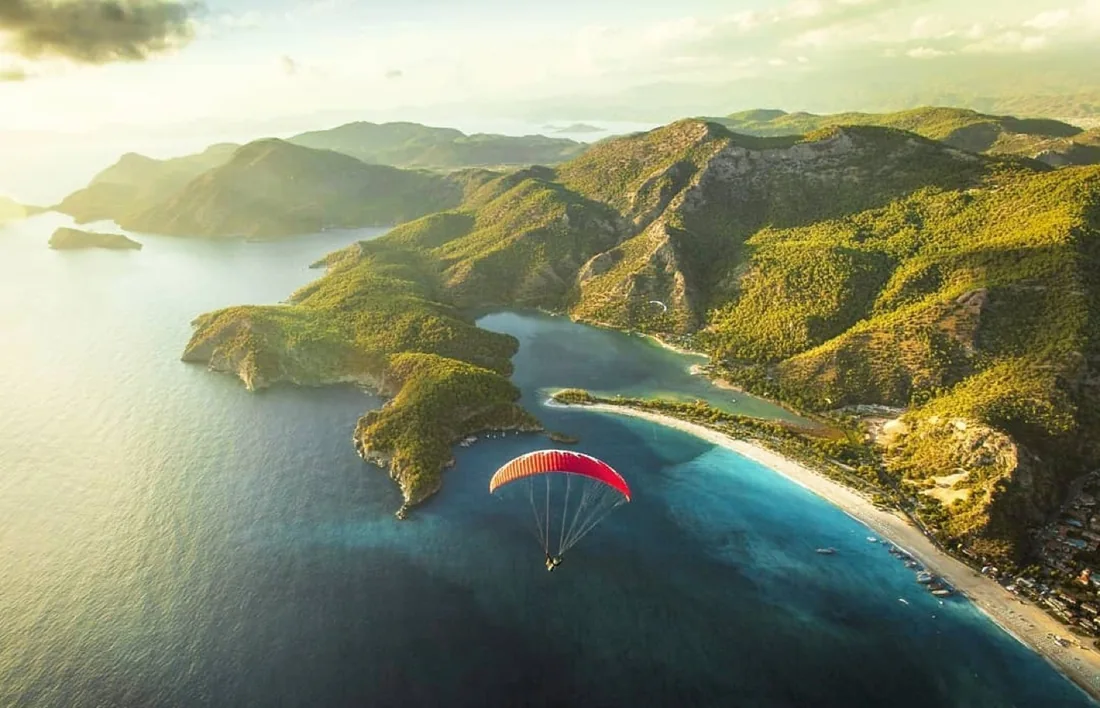
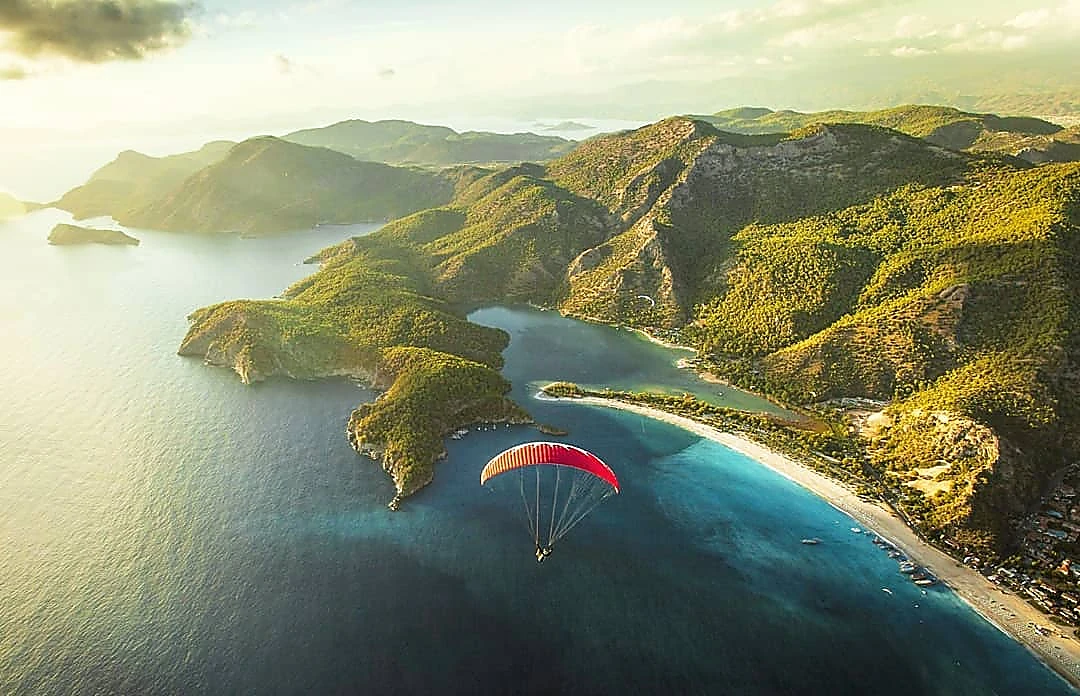
Fix cover photo blur + Telegram browser hint
Made-with: Cursor

diff --git a/index.html b/index.html
@@ -478,5 +478,27 @@ setTimeout(()=>{tip.remove();},4200);
   });
 })();
 </script>
+
+<div id="tg-banner" style="display:none;position:fixed;bottom:0;left:0;right:0;z-index:9999;background:#111;border-top:1px solid rgba(127,236,224,0.4);padding:10px 16px;font-family:Inter,sans-serif;font-size:13px;color:#fff;text-align:center;line-height:1.5;">
+  Для зума пальцами — открой в браузере<br>
+  <span style="color:#7FECE0;font-size:12px;">Нажми ··· → «Открыть в браузере»</span>
+  <span id="tg-close" style="position:absolute;right:14px;top:50%;transform:translateY(-50%);font-size:20px;cursor:pointer;color:rgba(255,255,255,0.5);">×</span>
+</div>
+<script>
+// Detect Telegram in-app browser
+(function(){
+  var ua = navigator.userAgent || '';
+  var isTG = ua.indexOf('Telegram') !== -1 || 
+             (window.TelegramWebviewProxy !== undefined) ||
+             (window.TelegramWebviewProxyProto !== undefined);
+  if(isTG){
+    var b = document.getElementById('tg-banner');
+    if(b) b.style.display='block';
+    document.getElementById('tg-close').onclick = function(){
+      b.style.display='none';
+    };
+  }
+})();
+</script>
 </body>
 </html>
